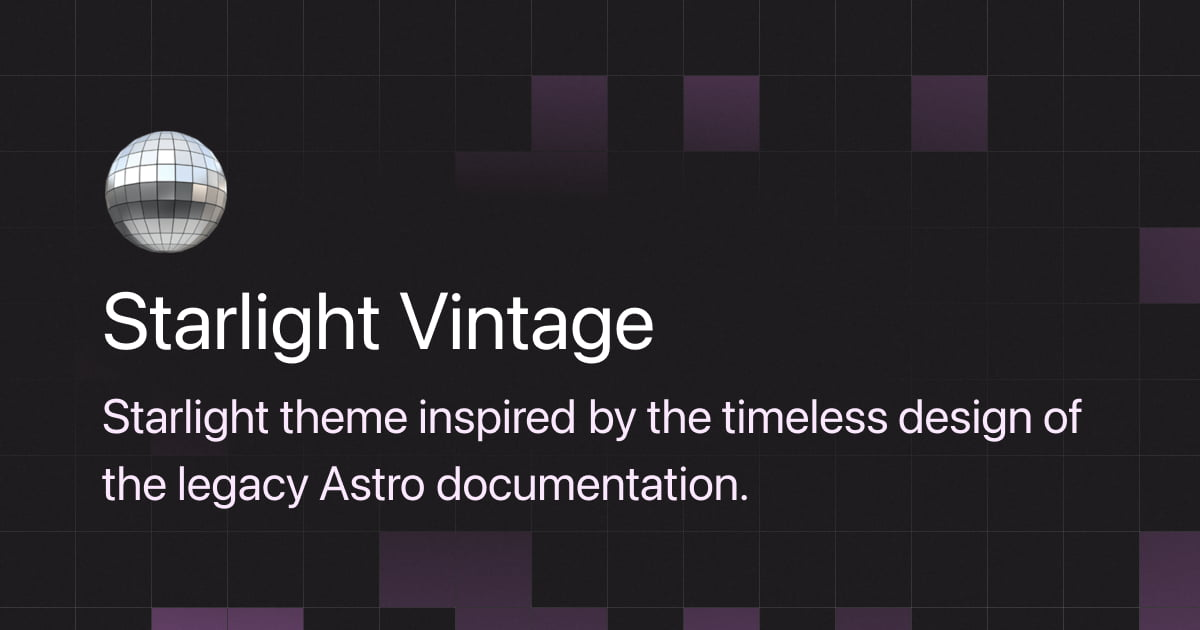
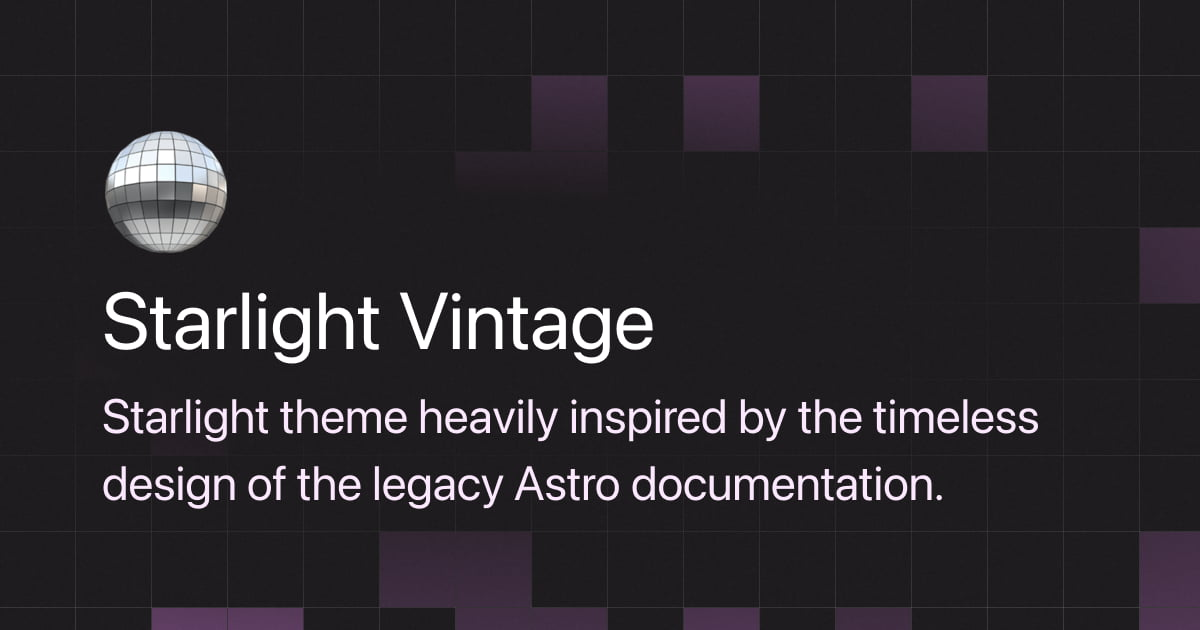
docs: description

Changed region(s): [[0.0617, 0.7238, 0.8017, 0.8143], [0.3392, 0.6333, 0.925, 0.6937]]

diff --git a/docs/astro.config.ts b/docs/astro.config.ts
@@ -22,7 +22,7 @@ export default defineConfig({
           tag: 'meta',
           attrs: {
             property: 'og:image:alt',
-            content: 'Starlight theme inspired by the timeless design of the legacy Astro documentation.',
+            content: 'Starlight theme heavily inspired by the timeless design of the legacy Astro documentation.',
           },
         },
       ],
